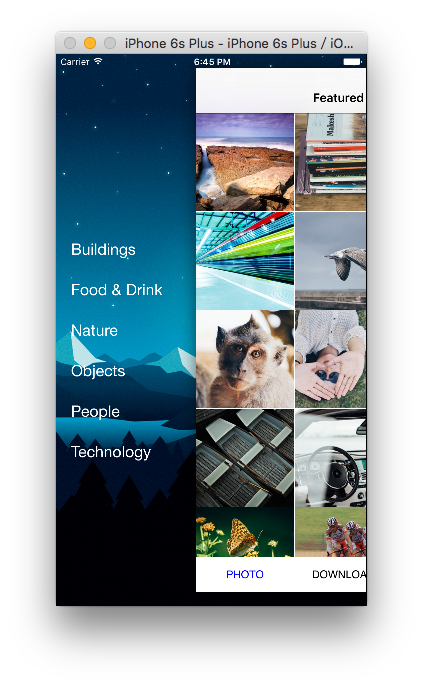
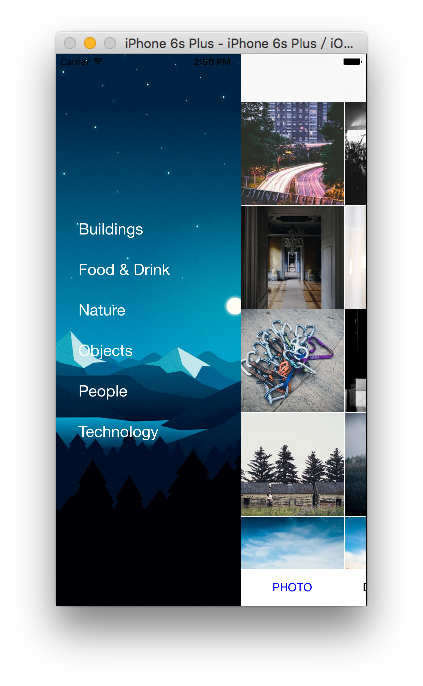
修改侧滑位置及截图

Changed region(s): [[0.4303, 0.0612, 0.8913, 0.8878], [0.1537, 0.3061, 0.3995, 0.6735]]

diff --git a/SplashPhotos/InitViewController.m b/SplashPhotos/InitViewController.m
@@ -20,8 +20,6 @@
 -(void)setupSideMenu
 {
     self.panMinimumOpenThreshold = 30;
-    self.contentViewInLandscapeOffsetCenterX = -30.f;
-
     self.contentViewController = [self.storyboard instantiateViewControllerWithIdentifier:@"mainTabBarController"];
     self.leftMenuViewController = [self.storyboard instantiateViewControllerWithIdentifier:@"leftViewController"];
     UIImage * bg = [UIImage imageNamed:@"bg"];

diff --git a/Vendor/HPSideMenu/HPSideMenu.m b/Vendor/HPSideMenu/HPSideMenu.m
@@ -56,7 +56,7 @@
     _panGestureEnabled = YES;
     _panFromEdge = YES;
     _panMinimumOpenThreshold = 60.0;
-    _contentViewInLandscapeOffsetCenterX = 70.f;
+    _contentViewInLandscapeOffsetCenterX = 40.f;
     _menuViewInLandscapeOffsetCenterX = 10.f;
     _originalMenuViewOffset = -50;
     _menuViewTotalDistance = _menuViewInLandscapeOffsetCenterX - _originalMenuViewOffset;
